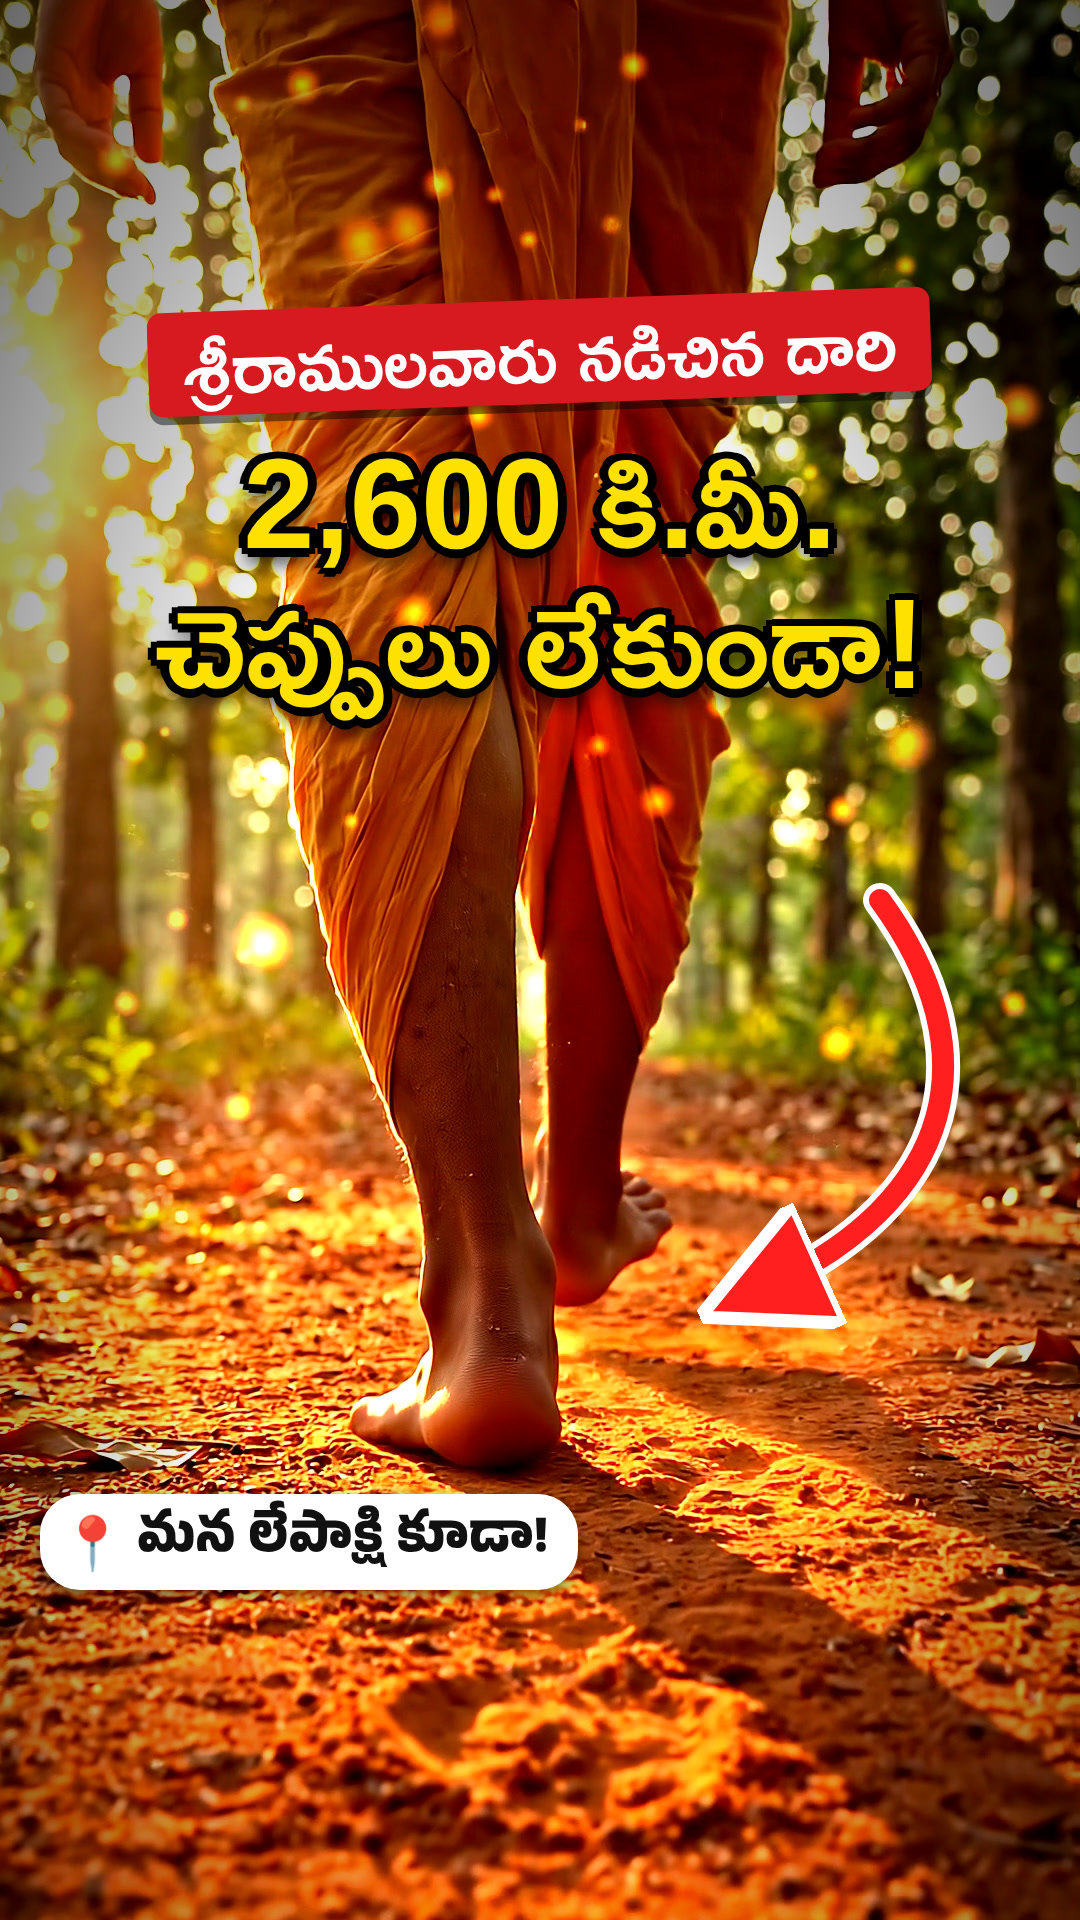
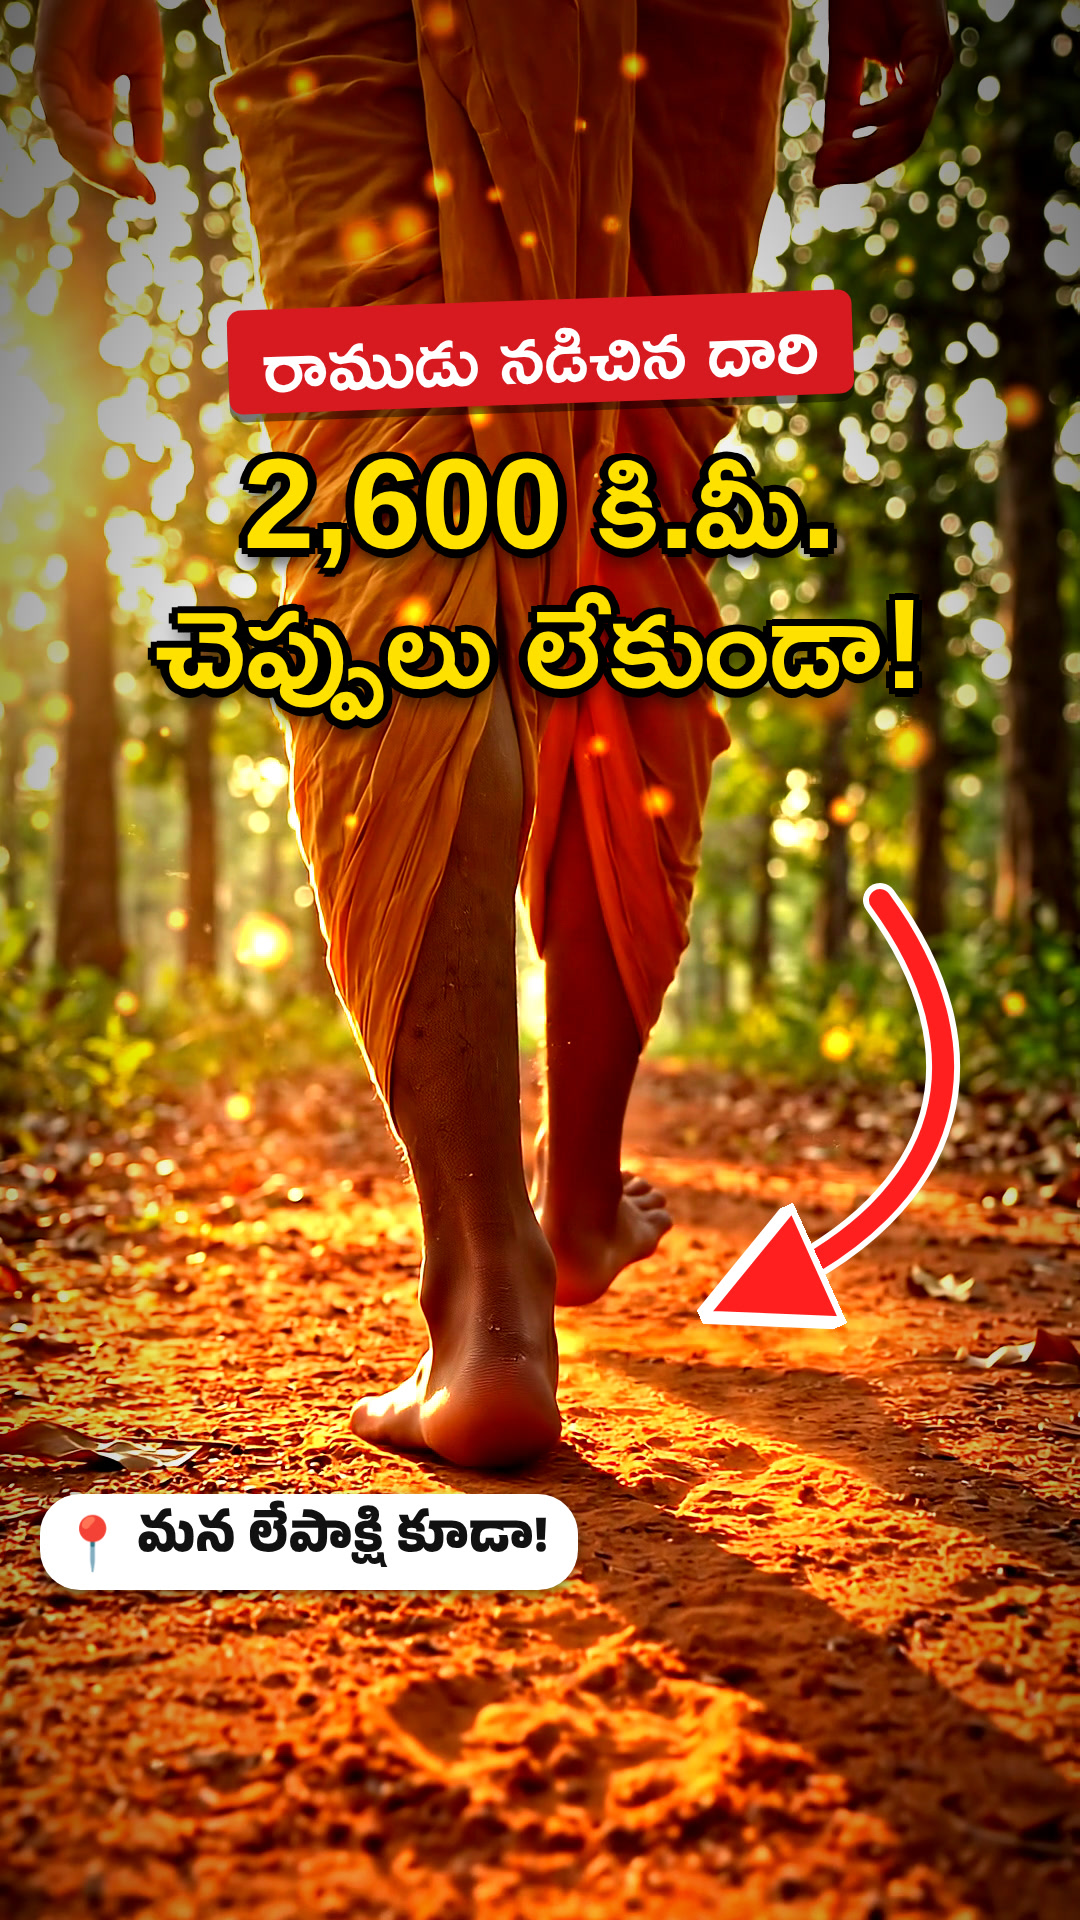
Rama reel: plain names in title, cover, thumbnail, copy
Claude-Session: https://claude.ai/code/session_017x8KaNM3focoJEkh1kSqmn

Changed region(s): [[0.1222, 0.125, 0.8861, 0.2188]]

diff --git a/vishayam-entante-shorts/PUBLISH_COPY_rama_route.md b/vishayam-entante-shorts/PUBLISH_COPY_rama_route.md
@@ -13,7 +13,7 @@ Cover: `rama_cover_1080x1920.jpg` · Thumbnail: `rama_thumbnail_1280x720.jpg`
 
 **Title**
 ```
-14 ఏళ్లు… 2,600 కి.మీ. చెప్పులు లేకుండా! 👣 శ్రీరాములవారు నడిచిన దారి 3D Map | Ramayanam in Telugu
+14 ఏళ్లు… 2,600 కి.మీ. చెప్పులు లేకుండా! 👣 రాముడు నడిచిన దారి 3D Map | Ramayanam in Telugu
 ```
 
 **Description**
@@ -75,7 +75,7 @@ Map: Sentinel-2 cloudless by EOX (CC BY 4.0) · Photos: Wikimedia Commons (credi
 
 **Caption**
 ```
-14 ఏళ్లు… 2,600 కిలోమీటర్లు… చెప్పులు లేకుండా! శ్రీరాములవారు నడిచిన దారి 3D మ్యాప్ మీద 👣
+14 ఏళ్లు… 2,600 కిలోమీటర్లు… చెప్పులు లేకుండా! రాముడు నడిచిన దారి 3D మ్యాప్ మీద 👣
 మన లేపాక్షి పేరు "లే పక్షి!" నుంచే వచ్చిందట.
 
 మీ దగ్గర్లో ఉన్న రామాయణ స్థలం ఏది? కామెంట్లో చెప్పండి 👇
